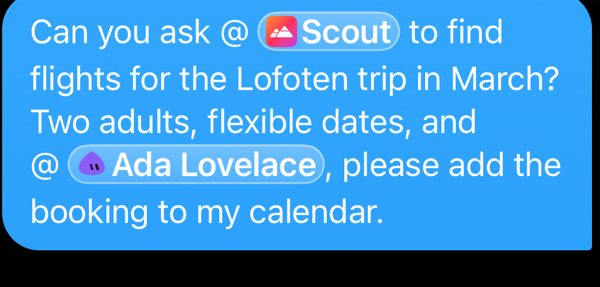
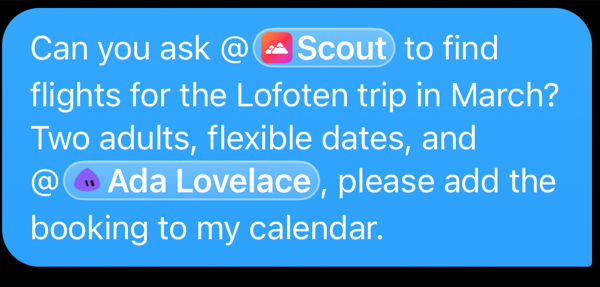
Set the mention @ right against its capsule

diff --git a/Sources/Chat/UserBubble.swift b/Sources/Chat/UserBubble.swift
@@ -41,7 +41,7 @@ struct UserBubble: View {
             var title = AttributedString(bot.title.replacing(" ", with: "\u{00A0}"))
             title.link = URL(string: "crew-mention:\(item.offset)")
             let tag = Text("\u{00A0}\(avatar)\(Text(title).fontWeight(.semibold))\u{00A0}")
-            return Text("\(result)@\u{00A0}\(tag.customAttribute(MentionTag(index: item.offset)))")
+            return Text("\(result)@\u{202F}\(tag.customAttribute(MentionTag(index: item.offset)))")
         }
     }
 

diff --git a/docs/PLAN.md b/docs/PLAN.md
@@ -79,7 +79,7 @@ References: `docs/hermes-api.md`, `docs/hermex-features.md`, `docs/swiftui-guide
 - `thinking.delta` is the TUI spinner face (verified on 0.21.7), never transcript text; `reasoning.delta`/`reasoning.available`/`message.complete.reasoning` become thinking rows. `tool.generating`, `status.update` and the todo list (`todo.updated`, `tool.complete.todos`, `todo_state`, revision-monotonic) are published on `ChatSession` for the UI and the Tasks panel.
 - Send while running: Steer = `session.steer` (shown as a note, matching the `display_kind: steer` history row), Queue = local queue submitted one per `message.complete`, Stop = `session.interrupt` and drops the local queue.
 - `ChatSessions` (environment) holds one `ChatSession` per bot per gateway, created lazily by `ChatScreen(bot:)` and kept running (so every opened bot re-resumes on each `gateway.ready`) until the gateway changes or the user signs out. `ChatScreen` marks the bot seen whenever its `last_active` changes while open and maps waiting/working/failed to the pill avatar's mood. No transcript disk cache yet.
-- @-mentions (Desktop parity): `@` at the end of the draft lists up to 8 other roster bots (prefix on handle or title; `default` is `@hermes`), then `@file:`/`@folder:` rows from `complete.path` on the runtime session. A mention is an `@handle` or `@title-slug` token in the text, never separate state; in a sent bubble a token that names a mentionable bot (the roster minus the current bot, or the room's members) renders inline as "@ (avatar) Name": a plain "@" glued by a no-break space to a white-translucent sheen capsule with a 1 pt white hairline holding the bot's 16 pt avatar (`ImageRenderer` snapshot, cached, embedded as `Text(Image)`) and its `Bot.title` in semibold, never the typed `@handle` (a `TextRenderer` over a `customAttribute` run; true `.glassEffect` cannot be drawn per text run). A bubble resolves its tags once per body and hands them to its tap overlay, whose `Text.LayoutKey` closure reruns on every scroll frame, so it never re-parses the text. Tapping a tag (a `crew-mention:` link plus a clear overlay over the capsule) never navigates: it opens a peek (`MentionPeek`, spec in `docs/flows/mention-card.md`) with the bot's live status and what the mention caused, read from the sender's own rows by `mentionExchange` (the turn's `message_agent` `message`, then the reply paired like #32, or Sending, Waiting, Delivered, Not delivered, Relayed; a plain mention shows the bot's latest preview). On iPhone and iPad it is a sheet at `.medium` whose `.large` detent (or a tap on the mention card) swaps in that bot's live `ChatScreen`; on Mac it is a popover at the tag whose mention card opens the bot's chat in its own window (`WindowGroup(for: Bot.ID)`), so the main window keeps its chat; the composer text stays plain (no attributed `TextField`) and no chip row shows anywhere. Only `prompt.submit` (send and queue) appends Desktop's identification note (from `hermes-bots/plugin.tsx`) plus one sentence of ours asking for brevity (no queueing or delivery narration, at most one short line after `message_agent`, the reply relayed in one line), steer does not; `Prompt(raw:)` cuts it off history like the other server suffixes. Return does not pick a suggestion. The transcript re-pins to the bottom when the composer bar grows (picker, cards) while it was at the bottom (`ChatView`'s `BottomEdge`), so the last reply never sits under the bar.
+- @-mentions (Desktop parity): `@` at the end of the draft lists up to 8 other roster bots (prefix on handle or title; `default` is `@hermes`), then `@file:`/`@folder:` rows from `complete.path` on the runtime session. A mention is an `@handle` or `@title-slug` token in the text, never separate state; in a sent bubble a token that names a mentionable bot (the roster minus the current bot, or the room's members) renders inline as "@ (avatar) Name": a plain "@" glued by a narrow no-break space to a white-translucent sheen capsule with a 1 pt white hairline holding the bot's 16 pt avatar (`ImageRenderer` snapshot, cached, embedded as `Text(Image)`) and its `Bot.title` in semibold, never the typed `@handle` (a `TextRenderer` over a `customAttribute` run; true `.glassEffect` cannot be drawn per text run). A bubble resolves its tags once per body and hands them to its tap overlay, whose `Text.LayoutKey` closure reruns on every scroll frame, so it never re-parses the text. Tapping a tag (a `crew-mention:` link plus a clear overlay over the capsule) never navigates: it opens a peek (`MentionPeek`, spec in `docs/flows/mention-card.md`) with the bot's live status and what the mention caused, read from the sender's own rows by `mentionExchange` (the turn's `message_agent` `message`, then the reply paired like #32, or Sending, Waiting, Delivered, Not delivered, Relayed; a plain mention shows the bot's latest preview). On iPhone and iPad it is a sheet at `.medium` whose `.large` detent (or a tap on the mention card) swaps in that bot's live `ChatScreen`; on Mac it is a popover at the tag whose mention card opens the bot's chat in its own window (`WindowGroup(for: Bot.ID)`), so the main window keeps its chat; the composer text stays plain (no attributed `TextField`) and no chip row shows anywhere. Only `prompt.submit` (send and queue) appends Desktop's identification note (from `hermes-bots/plugin.tsx`) plus one sentence of ours asking for brevity (no queueing or delivery narration, at most one short line after `message_agent`, the reply relayed in one line), steer does not; `Prompt(raw:)` cuts it off history like the other server suffixes. Return does not pick a suggestion. The transcript re-pins to the bottom when the composer bar grows (picker, cards) while it was at the bottom (`ChatView`'s `BottomEdge`), so the last reply never sits under the bar.
 - Live work log header shows `status.update` text, else "Preparing <tool>" from `tool.generating`, after "Working for" on the last turn.
 - iOS `scenePhase`: background calls `Connection.suspend()` (state connecting, socket closed); returning from background calls `retry()`. Launch's inactive to active is ignored because the network monitor already connects.
 - Push client: `PushCenter` (owned by the platform app delegate adaptor, in the environment) reads authorization at launch and asks for alert, sound and badge (the normal Allow prompt) on the first connection while undetermined or provisional; time-sensitive comes from the entitlement, its authorization option is deprecated.

diff --git a/docs/flows/mention-card.md b/docs/flows/mention-card.md
@@ -4,7 +4,7 @@ A sent bubble shows each `@handle` or `@title-slug` token that names a mentionab
 
 ## Tag
 
-- Reads "@ (avatar) Name": a plain "@", then a white-translucent capsule (sheen, 1 pt white hairline) holding the bot's 16 pt avatar (`ImageRenderer` snapshot, scaled with Dynamic Type) and its display title in semibold. The name is `Bot.title` (profile title, then display name, then the profile name, "Hermes" for `default`), read live, so past bubbles follow a rename. The typed token (`@scout`, `@ada-lovelace`) never shows in a bubble; the composer keeps the plain `@handle` text that is sent. No-break spaces keep the "@" on the capsule's line and a multi-word title in one capsule, so a tag at a line end moves to the next line whole; a title wider than the line breaks inside it and draws one capsule per line fragment. The bubble's gradient is fixed, so the capsule is the same in light and dark (checked in both renders).
+- Reads "@ (avatar) Name": a plain "@", then a white-translucent capsule (sheen, 1 pt white hairline) holding the bot's 16 pt avatar (`ImageRenderer` snapshot, scaled with Dynamic Type) and its display title in semibold. The name is `Bot.title` (profile title, then display name, then the profile name, "Hermes" for `default`), read live, so past bubbles follow a rename. The typed token (`@scout`, `@ada-lovelace`) never shows in a bubble; the composer keeps the plain `@handle` text that is sent. A narrow no-break space sets the "@" right against the capsule and keeps it on the capsule's line, and no-break spaces keep a multi-word title in one capsule, so a tag at a line end moves to the next line whole; a title wider than the line breaks inside it and draws one capsule per line fragment. The bubble's gradient is fixed, so the capsule is the same in light and dark (checked in both renders).
 - Why: Messages and Mail turn a mention into the person's name, not their handle, and the user asked to keep the "@" as the cue that this is a mention. Keeping the "@" outside the capsule leaves the capsule as just the bot (avatar and name, like a contact token) and keeps the line lighter; the alternative with the "@" inside the capsule was rendered next to it (both renders in the PR). The old avatar plus `@handle` is gone: handles are server ids, the title is what the user knows the bot by.
 - Copy, Share and Select (the bubble's menu) give the typed text with its `@handle`s; Mac's in-place text selection copies what it shows ("@ Scout"). Bot list previews, push and the composer keep the typed text, a known difference.
 - Accessibility: the title is the link (VoiceOver reads "at", then "Scout, link"); two bots with the same title are told apart only by avatar, a known gap.
